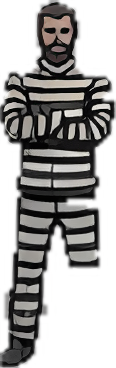
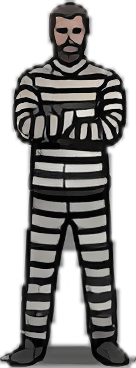
Зона: роба без обрезанной ноги, кнопка случая не закрывает сцену
- полосатая роба почти цвета фона листа — режем её по контрасту, чтобы
  светлые полосы не уходили в фон вместе с ногой
- «❗ случай» — в углу над меню, а не поверх подписей зданий
- scripts/__pycache__ убран из репозитория

Claude-Session: https://claude.ai/code/session_01BxCfG1iQNe6VTqa7V1pGfD

diff --git a/zona/src/styles.css b/zona/src/styles.css
@@ -1578,7 +1578,7 @@ main {
 @keyframes esc-truck { from { transform: translateX(0); } to { transform: translateX(520px); } }
 .esc-alarm { animation: esc-alarm 0.6s infinite alternate; opacity: 0; }
 @keyframes esc-alarm { to { opacity: 0.22; } }
-.event-btn { position: fixed; left: 50%; top: 162px; transform: translateX(-50%); white-space: nowrap; z-index: 30; padding: 9px 14px; border-radius: 22px; border: 1px solid var(--gold); background: linear-gradient(#3a2a12, #221a0e); color: var(--gold); font-weight: 700; font-size: 12.5px; box-shadow: 0 4px 16px #000a, 0 0 12px #f2c14e55; }
+.event-btn { position: fixed; right: 10px; bottom: 84px; white-space: nowrap; z-index: 30; padding: 7px 12px; max-width: 46vw; overflow: hidden; text-overflow: ellipsis; border-radius: 22px; border: 1px solid var(--gold); background: linear-gradient(#3a2a12, #221a0e); color: var(--gold); font-weight: 700; font-size: 12.5px; box-shadow: 0 4px 16px #000a, 0 0 12px #f2c14e55; }
 .event-btn .pulse-ring { position: absolute; inset: -4px; border-radius: 26px; border: 2px solid var(--gold); animation: ring 1.4s infinite; pointer-events: none; }
 .dialog-body p { white-space: pre-line; }
 .visit-acts { display: grid; grid-template-columns: 1fr 1fr 1fr; gap: 6px; }

diff --git a/zona/scripts/cut-poses.py b/zona/scripts/cut-poses.py
@@ -10,7 +10,7 @@ import esrgan  # noqa: E402  нейро-апскейл, если задан ESRG
 
 OUT = os.path.join(os.path.dirname(os.path.abspath(__file__)), '..', 'public', 'art', 'sheet')
 
-def cut(src, box, path, scale=3, keep_share=0.04, tol=22, open_thin=False, trim=(0, 0), grey_gaps=False):
+def cut(src, box, path, scale=3, keep_share=0.04, tol=22, open_thin=False, trim=(0, 0), grey_gaps=False, contrast=0):
     x0, y0, x1, y1 = box
     im = src.crop(box)
     a = np.asarray(im).astype(int)
@@ -39,6 +39,20 @@ def cut(src, box, path, scale=3, keep_share=0.04, tol=22, open_thin=False, trim=
         if gn2:
             gs = ndimage.sum(grey, glab2, range(1, gn2 + 1))
             fg &= ~np.isin(glab2, [i + 1 for i in range(gn2) if gs[i] >= 20])
+    if contrast:
+        # фигура в полоску цвета фона (роба): одежда — всё, что заметно светлее или темнее фона
+        lumd = np.abs(a.mean(2) - bgc.mean())
+        m = (lumd > contrast) | (sat > 25)
+        m = ndimage.binary_closing(m, structure=np.ones((3, 3)), iterations=2)
+        m = ndimage.binary_fill_holes(m)
+        # просвет между ногами — крупное пятно цвета фона; серые полосы робы — тонкие, их оставляем
+        flat = (lumd < 12) & (sat < 10)
+        flab, fn = ndimage.label(flat)
+        if fn:
+            fs = ndimage.sum(flat, flab, range(1, fn + 1))
+            m &= ~np.isin(flab, [i + 1 for i in range(fn) if fs[i] >= 90])
+        m = ndimage.binary_opening(m, structure=np.ones((2, 2)))
+        fg = m
     # обрезки соседних фигур у краёв кадра
     if trim[0]:
         fg[:, : trim[0]] = False

diff --git a/zona/scripts/cut-outfits.py b/zona/scripts/cut-outfits.py
@@ -29,6 +29,11 @@ def sheet_c(cells):
     for name, box in cells.items():
         # тельняшка, роба и полосатая — серые, как фон: не вырезаем серые просветы
         grey = name.split('/')[0] in ('c_telnyashka', 'c_stripes', 'c_tank')
+        # полосатая роба почти сливается с фоном — режем по контрасту и чуть шире кадр
+        if name.startswith('c_stripes/'):
+            x0, y0, x1, y1 = box
+            cp.cut(src, (x0 - 6, y0, x1 + 4, y1 + 2), f'outfit/{name}', scale=3, keep_share=0.3, contrast=22)
+            continue
         cp.cut(src, tuple(box), f'outfit/{name}', scale=3, keep_share=0.3, grey_gaps=not grey, open_thin=True)
 
 
